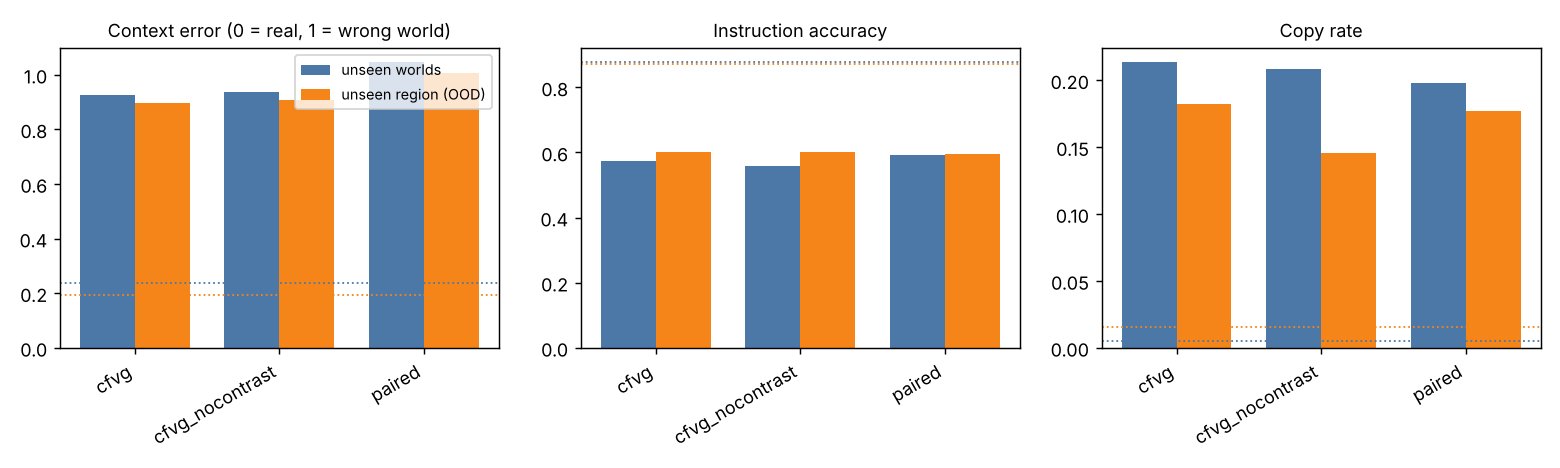
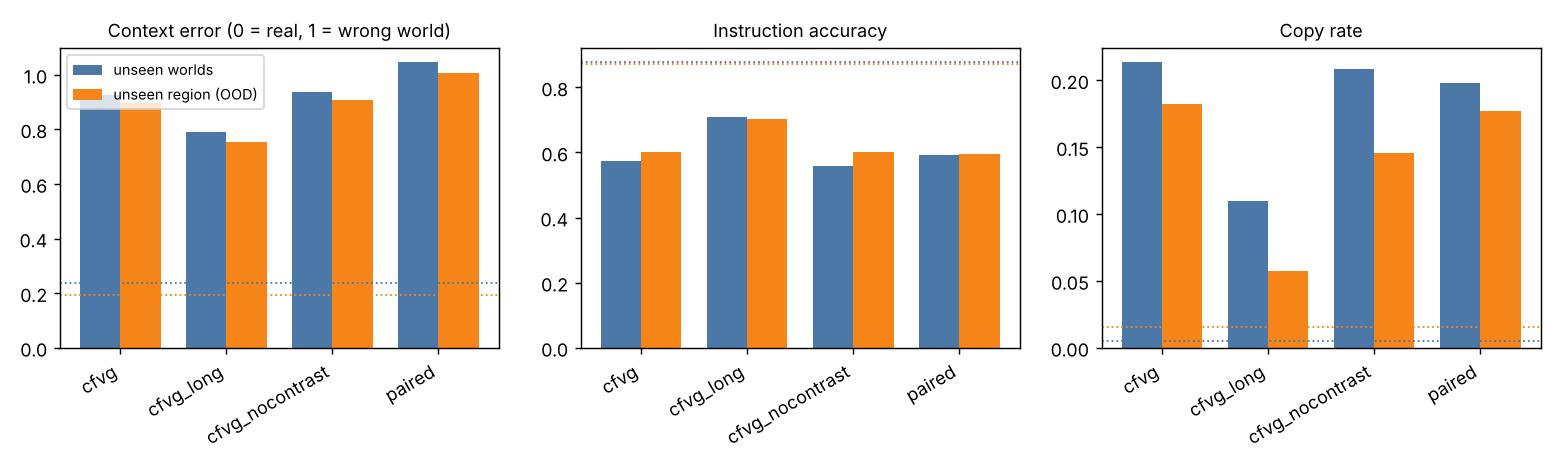
Add 12k-step main-model results with reference-count and guidance sweeps
Claude-Session: https://claude.ai/code/session_01JTynV56NT4MEBhr1tnkV8W

diff --git a/cfvg/experiments/results/summary.md b/cfvg/experiments/results/summary.md
@@ -10,6 +10,7 @@
 | *wrong world (floor)* | 1.000 | 0.878 | 0.021 | 2.324 | 1.055 |
 | *copy a reference* | 0.349 | 0.223 | 0.995 | 0.992 | 1.003 |
 | **cfvg** | 0.926 | 0.574 | 0.214 | 2.445 | 1.121 |
+| **cfvg_long** | 0.791 | 0.710 | 0.109 | 2.369 | 1.075 |
 | **cfvg_nocontrast** | 0.936 | 0.559 | 0.208 | 2.420 | 1.124 |
 | **paired** | 1.046 | 0.594 | 0.198 | 0.752 | 1.124 |
 
@@ -20,6 +21,7 @@ Per-attribute error (lower is better):
 | real | 0.024 | 0.080 | 0.032 | 0.028 | 0.069 | 0.004 | 0.089 | 0.000 | +0.015 |
 | wrong world | 0.319 | 0.557 | 0.053 | 0.046 | 0.297 | 0.043 | 0.630 | 0.682 | +0.015 |
 | cfvg | 0.047 | 0.400 | 0.067 | 0.061 | 0.308 | 0.037 | 0.661 | 0.677 | +0.004 |
+| cfvg_long | 0.035 | 0.231 | 0.074 | 0.054 | 0.271 | 0.012 | 0.635 | 0.693 | +0.013 |
 | cfvg_nocontrast | 0.046 | 0.419 | 0.071 | 0.061 | 0.321 | 0.037 | 0.641 | 0.656 | +0.002 |
 | paired | 0.051 | 0.878 | 0.071 | 0.068 | 0.281 | 0.036 | 0.651 | 0.677 | -0.014 |
 
@@ -31,6 +33,7 @@ Per-attribute error (lower is better):
 | *wrong world (floor)* | 1.000 | 0.861 | 0.021 | 2.370 | 1.018 |
 | *copy a reference* | 0.283 | 0.223 | 1.000 | 1.006 | 1.003 |
 | **cfvg** | 0.896 | 0.602 | 0.182 | 2.408 | 1.078 |
+| **cfvg_long** | 0.755 | 0.702 | 0.057 | 2.473 | 1.056 |
 | **cfvg_nocontrast** | 0.906 | 0.600 | 0.146 | 2.368 | 1.083 |
 | **paired** | 1.007 | 0.595 | 0.177 | 0.720 | 1.088 |
 
@@ -41,6 +44,7 @@ Per-attribute error (lower is better):
 | real | 0.022 | 0.075 | 0.035 | 0.030 | 0.043 | 0.004 | 0.094 | 0.000 | -0.031 |
 | wrong world | 0.318 | 0.478 | 0.120 | 0.045 | 0.326 | 0.042 | 0.625 | 0.688 | -0.120 |
 | cfvg | 0.046 | 0.357 | 0.133 | 0.057 | 0.333 | 0.037 | 0.630 | 0.682 | -0.130 |
+| cfvg_long | 0.033 | 0.253 | 0.126 | 0.053 | 0.277 | 0.012 | 0.635 | 0.703 | -0.124 |
 | cfvg_nocontrast | 0.044 | 0.376 | 0.132 | 0.058 | 0.327 | 0.037 | 0.641 | 0.708 | -0.129 |
 | paired | 0.048 | 0.727 | 0.145 | 0.060 | 0.320 | 0.037 | 0.615 | 0.682 | -0.139 |
 
@@ -52,21 +56,22 @@ Snap baseline (never leaves training gravity range) OOD gravity error: 0.045
 |---|---|---|---|---|---|---|---|
 | 1500 | 0.962 | 0.930 | 0.406 | 0.396 | 0.708 | 0.615 | 0.316 |
 | 4000 | 0.926 | 0.896 | 0.574 | 0.214 | 0.661 | 0.677 | 0.308 |
+| 12000 | 0.791 | 0.755 | 0.710 | 0.109 | 0.635 | 0.693 | 0.271 |
 
 ## Number of reference clips at inference (trained with 1–3)
 
 | K | context score | instruction acc | copy rate |
 |---|---|---|---|
-| 1 | 0.930 | 0.570 | 0.078 |
-| 2 | 0.928 | 0.573 | 0.167 |
-| 3 | 0.926 | 0.574 | 0.214 |
-| 5 | 0.925 | 0.570 | 0.312 |
-| 8 | 0.925 | 0.576 | 0.370 |
+| 1 | 0.799 | 0.707 | 0.057 |
+| 2 | 0.792 | 0.711 | 0.094 |
+| 3 | 0.791 | 0.710 | 0.109 |
+| 5 | 0.786 | 0.711 | 0.151 |
+| 8 | 0.788 | 0.712 | 0.188 |
 
 ## Text guidance scale
 
 | scale | context score | instruction acc | copy rate |
 |---|---|---|---|
-| 1.0 | 0.926 | 0.574 | 0.214 |
-| 2.0 | 0.961 | 0.656 | 0.156 |
-| 3.5 | 1.020 | 0.680 | 0.167 |
+| 1.0 | 0.791 | 0.710 | 0.109 |
+| 2.0 | 0.777 | 0.809 | 0.036 |
+| 3.5 | 0.775 | 0.850 | 0.052 |
